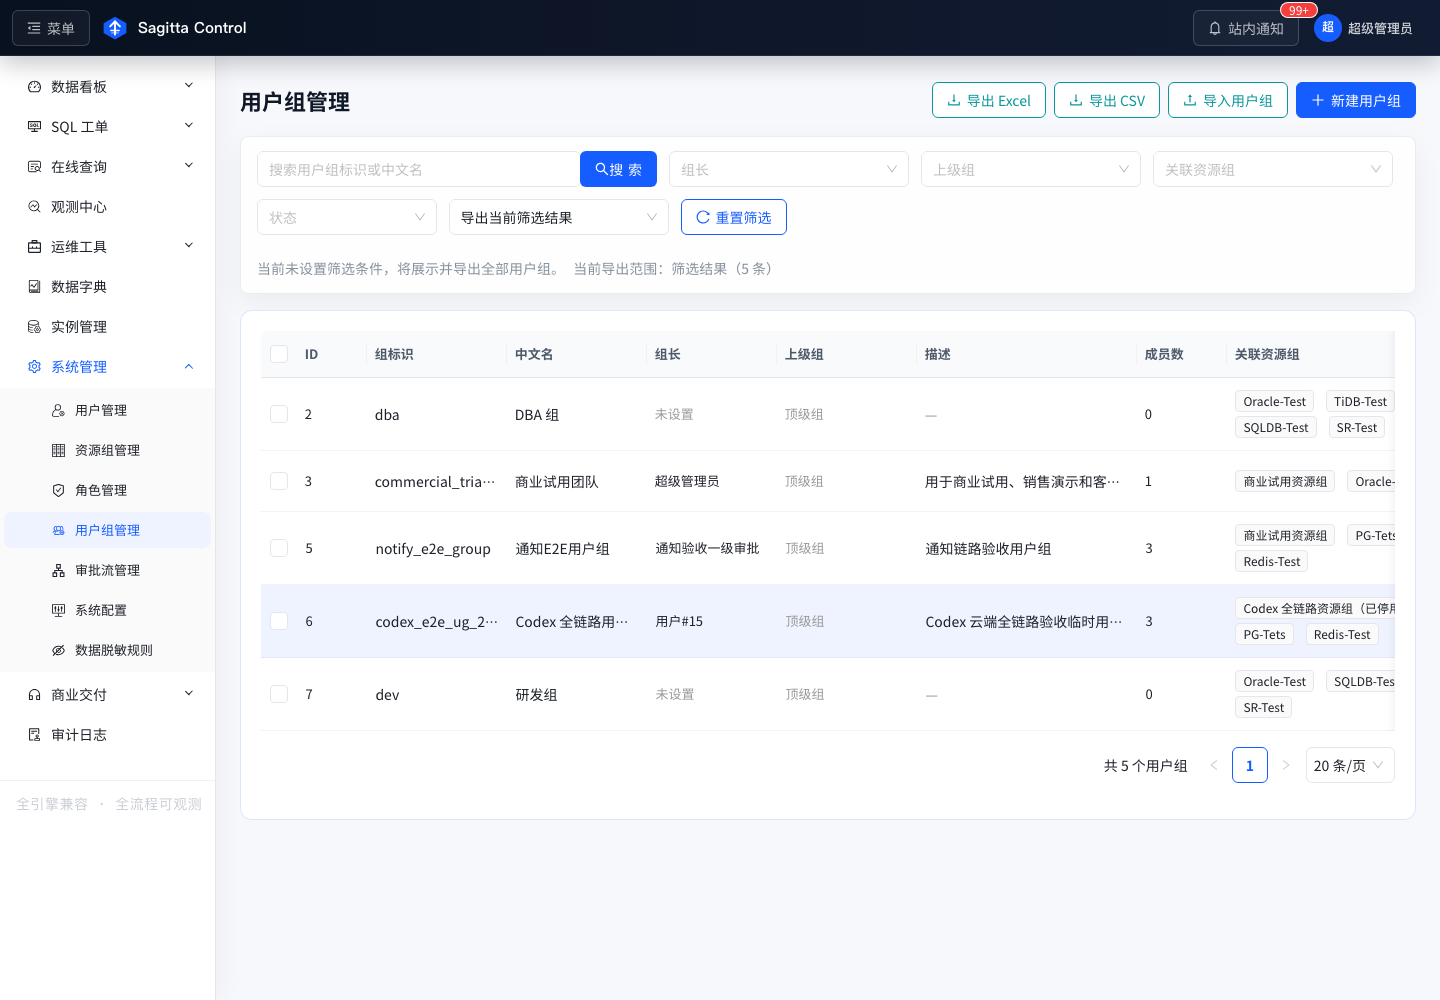
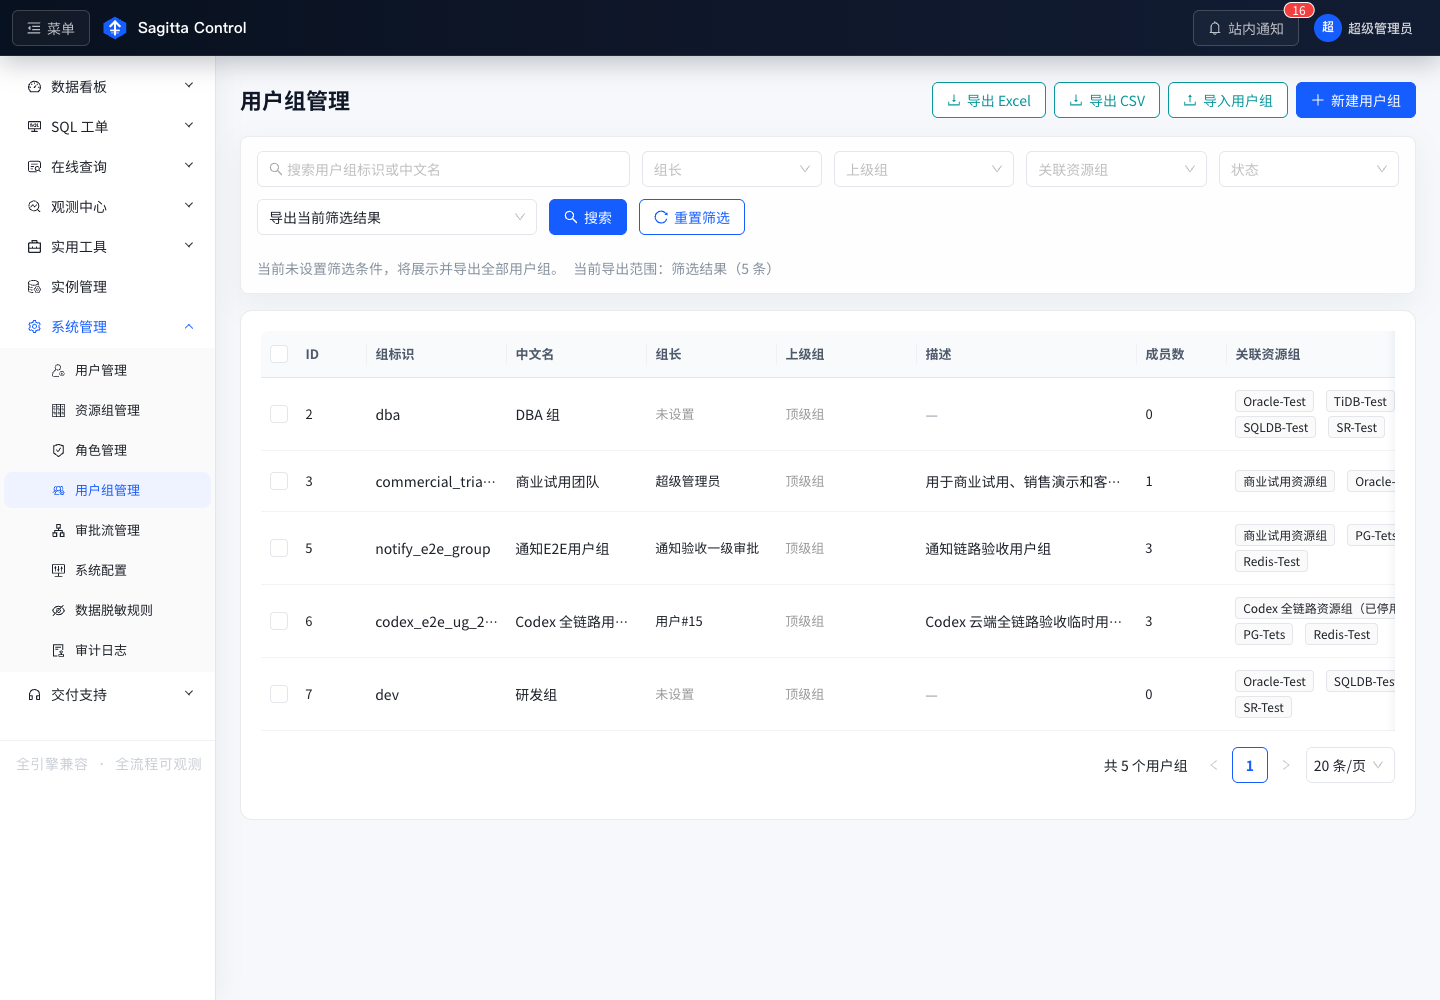
刷新 3.0 用户部署包截图与文档
- 按 v3.0 新菜单重拍全部界面截图（观测中心拆分为实例总览/实例诊断，
  新增 12-monitor-diagnostics，移除已下线的 12-monitor-sql-analysis）
- 概览类页面统一使用 60 天时间窗口，数据更完整
- 同步术语治理：docker-compose 注释、go-live-check 及三份手册去商业化表述
- releases/v3.0.0 已签名发布包保持冻结不变

diff --git a/docs/user_manual.md b/docs/user_manual.md
@@ -218,7 +218,7 @@ Dashboard 展示当前登录用户权限范围内的统计信息，包括：
 ## 7. 查询权限申请
 
 适用角色：研发工程师、审批人
-入口路径：侧边栏 `查询权限`
+入口路径：侧边栏 `在线查询 → 查询权限`
 
 ### 7.1 提交申请
 
@@ -250,7 +250,7 @@ Dashboard 展示当前登录用户权限范围内的统计信息，包括：
 ## 8. 数据字典
 
 适用角色：研发工程师、DBA
-入口路径：侧边栏 `数据字典`
+入口路径：侧边栏 `实用工具 → 数据字典`
 
 操作步骤：
 
@@ -268,7 +268,7 @@ Dashboard 展示当前登录用户权限范围内的统计信息，包括：
 ## 9. 数据脱敏
 
 适用角色：DBA、系统管理员、安全审计员
-入口路径：侧边栏 `数据脱敏`
+入口路径：侧边栏 `系统管理 → 数据脱敏规则`
 
 操作步骤：
 
@@ -285,7 +285,7 @@ Dashboard 展示当前登录用户权限范围内的统计信息，包括：
 ## 10. 观测诊断
 
 适用角色：DBA、运维工程师
-入口路径：侧边栏 `观测中心`、`SQL 洞察`、`运行诊断`
+入口路径：侧边栏 `观测中心 → 实例总览`、`观测中心 → 实例诊断`
 
 常用功能：
 
@@ -301,7 +301,8 @@ Dashboard 展示当前登录用户权限范围内的统计信息，包括：
 - 实例概览中的 MySQL `当前慢查询` 为当前正在执行且超过 `long_query_time` 的会话数，`锁等待会话` 为当前等待锁或被阻塞的会话数，不代表历史累计值。
 - 性能趋势中的 `本次慢查询` 表示相邻两次采集之间新增的慢查询次数，旧版累计快照会在接口侧自动换算成单次采集增量。
 - StarRocks 的 Top SQL 来自 `SHOW PROCESSLIST` 可见的当前 SQL 活动；若账号缺少查看会话权限，页面会提示采集受限。
-- 实例诊断工作台会保留概览、性能、库容量、表容量、会话洞察、SQL 洞察、复制、等待事件、容量增长、告警和采集诊断等通用页签，并根据当前实例类型追加专属页签。
+- 观测中心拆分为 `实例总览` 和 `实例诊断` 两个二级菜单：`实例总览` 展示舰队级实例健康与风险列表，`实例诊断` 针对单实例展开诊断；点击实例总览中的某个实例会跳转到实例诊断。
+- 实例诊断会保留概览、性能、库容量、表容量、会话洞察、SQL 洞察、复制、等待事件、容量增长、告警和采集诊断等通用页签，并根据当前实例类型追加专属页签。
 - TiDB 专属页签展示 Token 使用率；Redis 专属页签展示内存使用率、Ops/sec、缓存命中率、Key 淘汰、拒绝连接、复制角色、客户端会话和慢命令。
 - ClickHouse 专属页签展示当前查询、连接数、查询计数增量、失败查询、延迟/拒绝写入、内存、磁盘、表容量和活动 SQL；QPS/TPS 需要至少两次采集后按计数器差值计算。
 - StarRocks 专属页签展示 FE/BE/CN、Load、Routine Load、Compaction、Tablet、资源组和当前 SQL 活动。
@@ -318,7 +319,7 @@ Dashboard 展示当前登录用户权限范围内的统计信息，包括：
 ## 11. 数据归档
 
 适用角色：研发工程师、DBA
-入口路径：侧边栏 `数据归档`
+入口路径：侧边栏 `实用工具 → 数据归档`
 
 操作步骤：
 
@@ -411,7 +412,7 @@ Dashboard 展示当前登录用户权限范围内的统计信息，包括：
 ## 13. 审计日志
 
 适用角色：安全审计员、系统管理员
-入口路径：侧边栏 `审计日志`
+入口路径：侧边栏 `系统管理 → 审计日志`
 
 可查看内容：
 
@@ -431,7 +432,7 @@ Dashboard 展示当前登录用户权限范围内的统计信息，包括：
 
 适用角色：系统管理员
 
-入口路径：侧边栏 `商业交付` → `License 授权`
+入口路径：侧边栏 `交付支持` → `License 授权`
 
 可执行操作：
 
@@ -456,7 +457,7 @@ Dashboard 展示当前登录用户权限范围内的统计信息，包括：
 
 适用角色：系统管理员、实施工程师、安全审计员
 
-入口路径：侧边栏 `商业交付` → `交付与支持`
+入口路径：侧边栏 `交付支持` → `交付与支持`
 
 可执行操作：
 
@@ -464,8 +465,8 @@ Dashboard 展示当前登录用户权限范围内的统计信息，包括：
 - 对未满足的推广前待处理项执行“去处理”，快速跳转到授权管理、实例管理、系统配置或交付验收入口；待处理项会区分阻塞项和建议补齐项。
 - 复制正式激活部署指纹，供商务/运营侧在授权中心生成正式激活码或离线 challenge-response。
 - 在实施交付页按品牌配置、License 授权、认证方式、通知渠道、首个实例、资源组/用户组/审批流、验收报告完成交付向导；每项会显示自动检测依据、上线必需/建议补齐级别、修复建议和快捷动作。
-- 点击 `初始化试用环境`，幂等创建商业试用资源组、用户组、标准审批流和样例审计记录；如果已接入活跃实例，系统会补充 SQL 工单、查询权限申请、在线查询、归档作业和监控快照演示数据，并自动生成一次验收报告。
-- 在交付中心生成非破坏性验收报告，并下载 Markdown 或 JSON；报告会纳入备份脚本、恢复脚本、升级回滚脚本、商业构建门禁、客户包 sha256、客户包签名和 SBOM 材料自检结果。
+- 点击 `初始化试用环境`，幂等创建用户试用资源组、用户组、标准审批流和样例审计记录；如果已接入活跃实例，系统会补充 SQL 工单、查询权限申请、在线查询、归档作业和监控快照演示数据，并自动生成一次验收报告。
+- 在交付中心生成非破坏性验收报告，并下载 Markdown 或 JSON；报告会纳入备份脚本、恢复脚本、升级回滚脚本、用户部署构建门禁、客户包 sha256、客户包签名和 SBOM 材料自检结果。
 - 生成诊断包，包含版本、健康状态、License、配置摘要、最近错误、队列状态、迁移版本和审计摘要；密码、Token、Secret、连接串会脱敏。
 - 查看高风险操作、查询导出、权限变更、License 操作四类合规报表。
 - 在观测中心或告警中心查看告警事件，并执行确认、静默、恢复和关闭；采集恢复时系统会自动将活动告警转为已恢复并发送恢复通知。

diff --git a/docs/operations_upgrade.md b/docs/operations_upgrade.md
@@ -25,16 +25,16 @@ curl -fsS http://127.0.0.1:8080/health
 
 - `postgres`、`redis`、`backend`、`celery_worker`、`celery_beat`、`frontend` 是否持续运行。
 - `License 授权` 页是否显示授权有效或试用有效。
-- `商业交付` -> `交付与支持` 是否存在推广、授权、实例或采集阻塞项。
+- `交付支持` -> `交付与支持` 是否存在推广、授权、实例或采集阻塞项。
 - 数据库实例采集、归档作业和通知任务是否持续失败。
 - 服务器磁盘空间、备份目录和日志目录是否接近容量上限。
 - 审批、查询和执行任务是否有异常堆积。
 
-产品内巡检建议使用 `商业交付` -> `交付与支持` 汇总推广就绪度、授权状态、客户环境用量、实例接入和监控采集摘要。
+产品内巡检建议使用 `交付支持` -> `交付与支持` 汇总推广就绪度、授权状态、客户环境用量、实例接入和监控采集摘要。
 
 ![交付与支持巡检入口](../screenshots/23-commercial-support.png)
 
-建议每周至少登录一次 `商业交付` -> `License 授权`，确认在线授权刷新、客户 ID、部署指纹和授权项目状态。
+建议每周至少登录一次 `交付支持` -> `License 授权`，确认在线授权刷新、客户 ID、部署指纹和授权项目状态。
 
 `License 授权` 页面包含客户 ID、部署指纹和授权状态，不作为公开截图素材。对外共享巡检材料时只保留脱敏后的结论，不直接传播授权页原图。
 
@@ -133,9 +133,9 @@ curl -fsS http://127.0.0.1/health
 - 授权状态正常。
 - 管理员可以进入 Dashboard。
 - 实例列表、SQL 工单、在线查询、查询权限、审计日志可以正常打开。
-- `商业交付` -> `交付与支持` 可生成验收报告。
+- `交付支持` -> `交付与支持` 可生成验收报告。
 
-升级后的实例、工单、查询、权限和审计入口属于人工点检项；建议在 `商业交付` -> `交付与支持` 生成验收报告并归档，不在运维指南中混入单个功能页面截图，避免将功能页面误读为升级步骤页面。
+升级后的实例、工单、查询、权限和审计入口属于人工点检项；建议在 `交付支持` -> `交付与支持` 生成验收报告并归档，不在运维指南中混入单个功能页面截图，避免将功能页面误读为升级步骤页面。
 
 ## 5. 升级失败时怎么处理
 
@@ -155,7 +155,7 @@ docker compose logs --tail=200 frontend > frontend-upgrade-error.log
 | 镜像拉取失败 | GHCR 网络、代理、镜像版本、离线镜像是否已导入。 |
 | 数据库备份失败 | `postgres` 是否 healthy、磁盘空间、数据库密码、volume 是否正确。 |
 | Alembic 迁移失败 | `backend` 日志、数据库连接、是否跨多个版本跳升、备份是否已完成。 |
-| 后端健康失败 | `.env`、PostgreSQL、Redis、License 公钥、商业完整性 Manifest。 |
+| 后端健康失败 | `.env`、PostgreSQL、Redis、License 公钥、用户部署完整性 Manifest。 |
 | 前端健康失败 | `frontend` 容器、`nginx.conf`、后端容器、端口和反向代理。 |
 
 如果失败发生在数据库迁移前，通常可以直接回到旧目录继续运行旧版本。如果失败发生在数据库迁移后，请先评估迁移是否可逆；不确定时联系 Sagitta Control 支持团队后再回滚。
@@ -221,7 +221,7 @@ docker compose logs --tail=200 frontend
 docker compose logs -f backend celery_worker celery_beat
 ```
 
-在产品内可以打开 `商业交付` -> `交付与支持`：
+在产品内可以打开 `交付支持` -> `交付与支持`：
 
 - 生成 Markdown 或 JSON 验收报告。
 - 导出脱敏诊断包。
@@ -252,6 +252,7 @@ docker compose logs -f backend celery_worker celery_beat
 | 查询无权限 | 用户角色、用户组、资源组、查询权限有效期。 |
 | 工单卡住 | 审批流程、审批人、通知配置、Worker 任务状态。 |
 | 升级后页面静态资源异常 | 浏览器缓存、前端容器版本、反向代理缓存策略。 |
+| SQL 编辑器一直 Loading | 前端容器是否包含 `/monaco-editor/min/vs/loader.js`，浏览器控制台是否有 Monaco 静态资源 404 或 CSP 错误。 |
 
 ## 9. 安全基线
 

diff --git a/docs/installation_deployment.md b/docs/installation_deployment.md
@@ -53,7 +53,7 @@ curl --version
 
 ### 2.3 部署前确认清单
 
-- 已获得 Sagitta Control 试用许可或商业授权。
+- 已获得 Sagitta Control 试用许可或正式授权。
 - 已规划访问域名、HTTPS 证书、管理员账号、备份目录和日志留存策略。
 - 已确认客户侧防火墙、安全组和反向代理允许访问前端入口。
 - 已确认数据库实例接入账号只授予必要权限。
@@ -184,16 +184,16 @@ http://<server>/
 首次部署没有正式 License 时会进入 60 天全功能试用期。登录后建议先完成授权确认：
 
 1. 使用初始化管理员账号登录 Sagitta Control。
-2. 打开 `商业交付` -> `License 授权`。
+2. 打开 `交付支持` -> `License 授权`。
 3. 确认试用期、客户 ID 和部署指纹。
 4. 如需正式授权，复制正式激活部署指纹。
-5. 将部署指纹提供给 Sagitta Control 商业支持。
+5. 将部署指纹提供给 Sagitta Control 技术支持。
 6. 获得激活码后在页面完成在线激活。
 7. 激活后刷新页面，确认授权状态、有效期和授权项目正常。
 
 `License 授权` 页面会展示客户 ID、部署指纹、授权状态和激活记录，属于客户现场敏感信息，公开文档不附该页面截图。内部验收或支持沟通时如需截图，请先遮挡公网 IP、客户 ID、部署指纹、激活码和授权状态明细。
 
-长期离线部署可在授权页面生成 Challenge，由商业支持签发 challenge-response 文件后导入。离线授权前请先确认服务器时间准确。
+长期离线部署可在授权页面生成 Challenge，由技术支持签发 challenge-response 文件后导入。离线授权前请先确认服务器时间准确。
 
 ## 8. 初始化业务配置
 
@@ -236,6 +236,7 @@ http://<server>/
 - `.env` 关键配置不是空值或占位符。
 - `APP_ENV=production`、`APP_INTEGRITY_REQUIRED=true`。
 - `AUTH_COOKIE_SECURE=true`、`ALLOW_INSECURE_AUTH_COOKIE=false`，确保公网生产环境只通过 HTTPS 发送浏览器登录 Cookie。
+- `TRUSTED_PROXY_COUNT` 与实际反向代理层数一致（标准单层 nginx 保持 `1`，无代理直连设 `0`），并确保 backend 仅经可信代理内网可达；否则审计与查询日志中的客户端 IP 可被 `X-Forwarded-For` 伪造。
 - 前后端健康接口可访问。
 - 管理员认证通过。
 - License 为正式授权且非试用。
